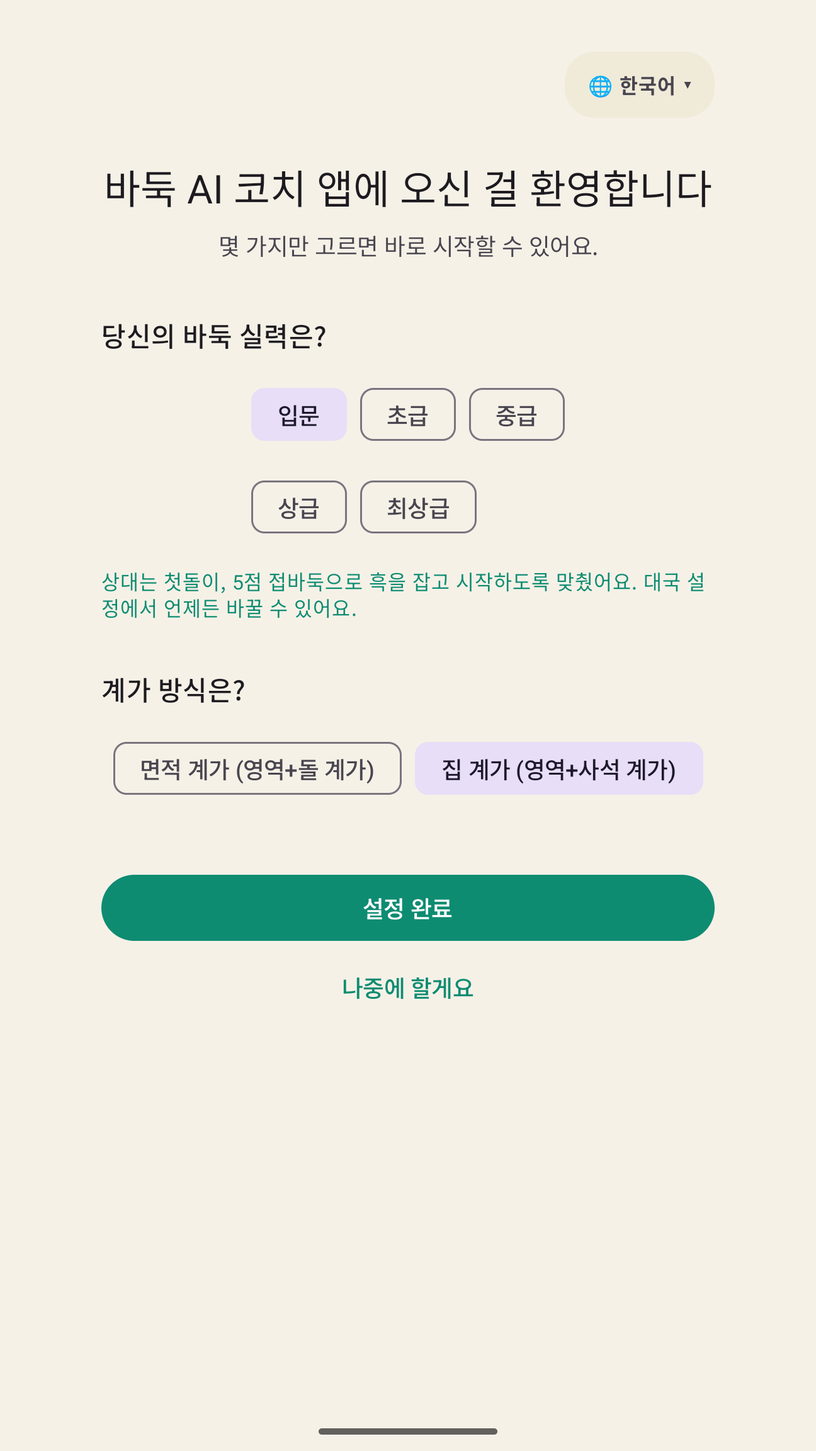
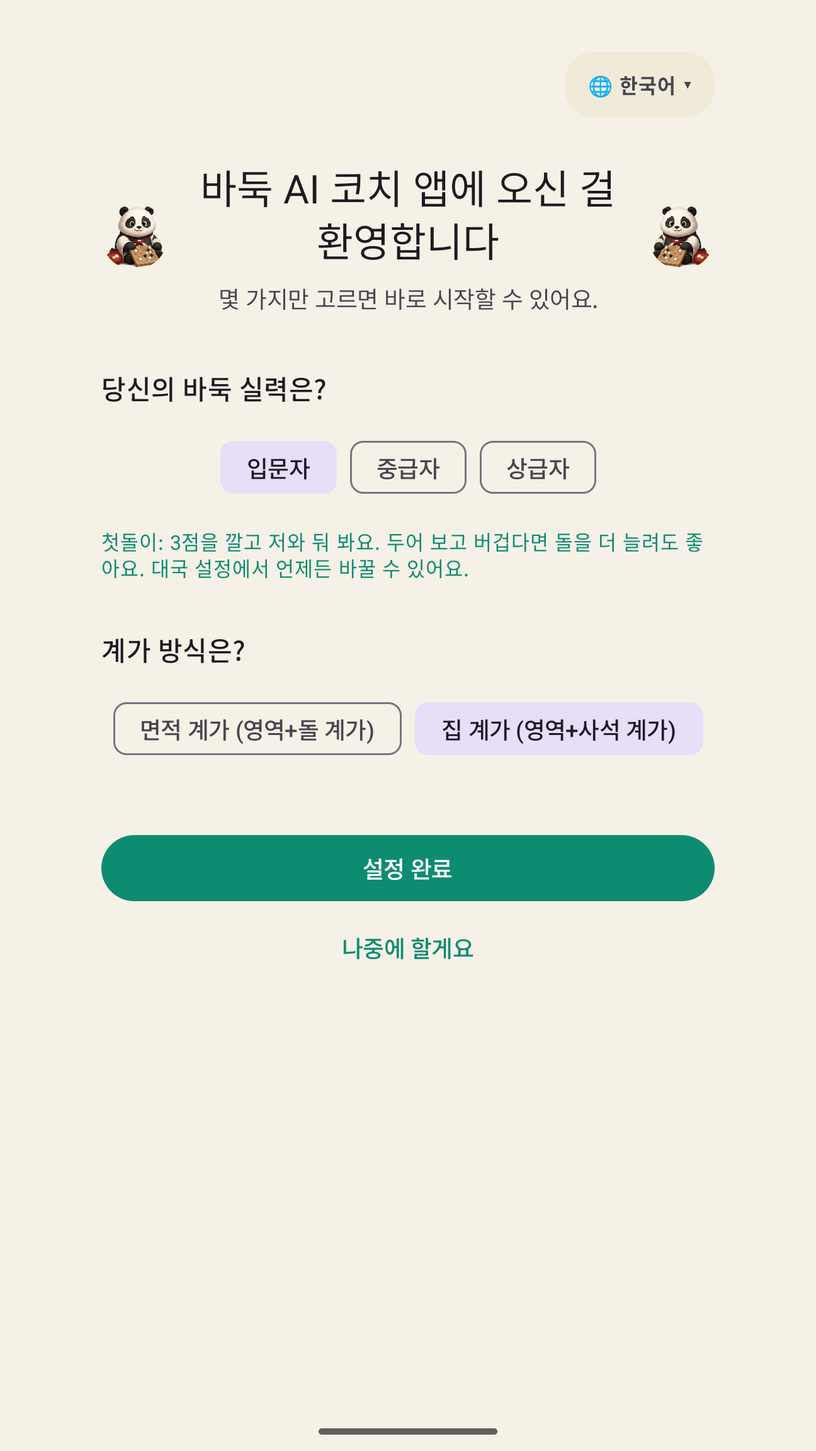
release: v0.9.1 / 901 — 마켓 등록용 번들, 그리고 낡아 있던 첫 컷
900을 만든 뒤 **여덟 커밋**이 들어갔다(#130~#136: 회전 이탈 수정 · 손을 따라오는
착수 · 랜딩 3지선다 · 앱 최초 실행 되돌리기 · 설정 IA 통합 · 대국 설정 잠금 ·
벤치마크 응답 · 결제 상품 종류). 900은 콘솔에 올라간 적이 없지만 **같은 번호에
다른 코드를 붙이지 않는다** — 805가 그 값을 이미 치렀다.

`dist/go-ai-coach-release.aab` = **v0.9.1 / VERSION_CODE=901**, 108MB,
sha256 `8c3eb79e77c420a0a37d94c731c88a4da1d2dee45c9444e8bd6496e4d6468a05`.

## 번들에서 직접 확인한 넷
- `base/lib/**/*.so` 셋 모두 `PT_LOAD p_align=16384` — 811을 반려시킨 조건(#118)
- `r8.json`의 `isOptimizedShrinkingEnabled=true`(#119)
- release 매니페스트에 `screenOrientation`·`configChanges`가 살아 있다(#130)
- dex에 오늘의 한국어 문구 셋 — #134·#135가 **R8을 넘어왔다**는 증거

## ⚠ 스토어 첫 컷이 앱과 달랐다 — 다시 찍었다
`01_landing.png`이 실력 질문을 **5단계**(입문/초급/중급/상급/최상급)로 보여주고
있었는데, #132가 **3지선다**로 바꿨다. **스토어의 첫 화면이 존재하지 않는 UI를
광고하던 상태**다. 캡처 조건과 변환 규격은 기존 그대로(96px 크롭 → 가장자리 열
확장 패딩 → 1296x2304 RGB).
· 나머지 다섯 장은 **확인하고 그대로 뒀다** — 900 이후 변경 중 그 화면들을 바꾸는
  것이 없다(사유는 그 폴더 README).

## ⚠ 업로드 사본의 번호가 옛 체계로 남아 있었다
2026-09-06의 재배열(랜딩을 맨 앞으로)이 `export/`에만 반영되고
`dist/play-store-assets/` 3곳은 `01_home`…`06_landing` 그대로였다. **콘솔은 파일명
오름차순으로 정렬하므로 그대로 올렸으면 랜딩이 맨 뒤로 갔다.** 세 폴더를 정본에서
다시 생성했다(sha256 넷 다 일치).

## release 빌드 실기(에뮬레이터 신규 설치) — R8을 켠 채로
랜딩 3지선다 → 입문자 선택 → 로비에 **접바둑 3점**이 그대로 → 출석 1일차 수령 →
엔진 기동·AI 착수(3수, `B +25.3`→`+22.1`) → **대국 중 회전해도 PID·수순 유지**
(#130) → ☰에서 네 칸 잠김 + 탭해도 안 열림(#134). `FATAL EXCEPTION` 0건.
⚠ 광고는 일부러 안 밟았다(§0 D — release만 실제 AdMob 단위를 쓴다).

출시 노트는 **첫 출시용 본문 그대로 둔다** — 900이 사용자에게 도달한 적이 없어
"이번에 개선된 것"이라 부를 기준선이 없다. 첫 출시가 나간 뒤부터는 새로 쓸 것.

Changed region(s): [[0.1235, 0.0938, 0.8951, 0.6875], [0.5247, 0.5, 0.8333, 0.5312]]

diff --git a/docs/work/plans/GOOGLE_PLAY_LAUNCH_PLAN.md b/docs/work/plans/GOOGLE_PLAY_LAUNCH_PLAN.md
@@ -53,11 +53,11 @@
 | A-2 | 개인정보처리방침 URL을 제출 필드에 등록 | ⬜ | URL은 이미 살아 있고 앱에서도 링크한다 — **콘솔에 붙여넣는 것만 남았다** | ✅ **답안지가 생겼다** — `PLAY_CONSOLE_PRIVACY_ANSWERS.md`. ⚠ 제출 전에 방침 문서의 **앱 이름**을 고칠 것 — ⚠ **2026-09-06 저녁에 앱 이름이 다시 바뀌었다**: `바둑 AI` → **`바둑 AI 코치`**(#97의 "코치 보류" 결정을 뒤집었다, 형세 보기·추천 수가 이미 코치 역할이라는 사용자 판단). 방침 페이지는 같은 날 오전에 `Go AI Coach` → `바둑 AI`로 한 번 고쳤을 뿐이라(아직 커밋·배포 전) 지금은 그것도 낡았다 — **`바둑 AI 코치`로 다시 맞출 것**, 랜딩·`resources.ts`도 여전히 남아 있다. ⚠ **URL 경로는 바꾸지 말 것** — 앱에 하드코딩(`SettingsScreen.kt:63`)이라 경로를 바꾸면 설치된 앱의 링크가 죽는다
 | A-3 | IARC 콘텐츠 등급 설문 | ⬜ | Firebase Analytics·Crashlytics를 **의도적으로 아예 안 넣었다** — 선언 대상은 AdMob 광고 ID와 Play Billing 구매 정보 정도 | ✅ **문항별 답이 `PLAY_CONSOLE_PRIVACY_ANSWERS.md`에 있다.** ⚠ 두 곳이 헷갈리기 쉽다 — **모의 도박은 '아니오'**(출석·조각이 전부 확정표라 확률형이 없다), **광고 형식은 '보상형' 하나뿐**(`BannerAdView`는 정의만 있고 **호출부가 0**이라 배너는 화면에 없다)
 | A-4 | 데이터 보안(Data safety) 양식 | ⬜ | A-3과 같은 근거 | ✅ **양식 문항별 답이 `PLAY_CONSOLE_PRIVACY_ANSWERS.md`에 있다.** 요지: Play의 '수집'은 **기기 밖으로 나가는 것**만 뜻하므로 **'기기 또는 기타 ID' 한 줄만 '예'**(AdMob 광고 ID)이고 나머지는 전부 '아니오'다. ⚠ **오류 로그는 '앱 정보 및 성능' 수집이 아니다** — 파일로만 남고 전송되지 않으며 Crashlytics·Sentry가 0건이다. ⚠ **`play-services-measurement-*`가 AdMob을 타고 트리에 들어와 있다**(`firebase-analytics`는 0건) — *"측정 아티팩트가 하나도 없다"* 고 말하면 사실이 아니다
-| A-5 | AAB 업로드 | ✅ **완료(2026-09-06, 812) — 지적 0건** | 올린 것은 `dist/go-ai-coach-release.aab` **v0.8.12 / 812**, sha256 `77608616ce4e…6c8e`. ✅ **최종 상태는 오류 0 · 경고 0 · 권장조치 0이다**(2026-09-06 사용자 확인). 16KB 오류가 사라졌고(#118), 최적화된 리소스 축소 권장조치도 사라졌으며(#119), **AGP 9.0 줄까지 함께 없어졌다** — 둘이 같은 「R8 최적화」 항목 아래 묶여 있던 것으로 보인다. 처음 떴던 "지원 기기 5,015개 감소" 경고는 위 D절대로 의도한 것이고 지금은 표시되지 않는다. ⚠ **811·810 이하로 되돌아갈 방법은 없다** — Play는 한 번 쓴 versionCode를 재사용하지 않는다. ⚠ **트랙마다 기준이 다르다**: 프로덕션에는 811이, 비공개 트랙에는 807이 올라가 있었다 | ⚠ **813이 나왔다(2026-09-06 저녁) — 812는 더 이상 올릴 것이 아니다.** 812에는 **#123(간헐적 시작 크래시)이 그대로 들어 있다**. `dist/go-ai-coach-release.aab` = **v0.8.13 / 813**, 108MB, sha256 `6ede6111b72a…a522b`. 813에는 #123 수정 + #124 아바타 + #125·#126 스플래시가 실려 있다. ✅ **콘솔이 막았던 두 조건을 813 번들에서 직접 확인했다** — `base/lib/**/*.so` 셋 모두 `PT_LOAD p_align=16384`(#118), `r8.json`의 `isOptimizedShrinkingEnabled=true`(#119).<br>⚠ **지금 올릴 것은 813도 아니다 — v0.9.0 / 900이다(2026-09-07).** 사용자가 813 위에서 직접 814를 만들어 실기 테스트를 끝냈고(완료 승인), 그 뒤 **마켓 정식 등록용으로 버전만 0.9.0/900으로 다시 올렸다** — 813→900 사이 코드 변경은 **#127(앱 이름에 "코치" 재추가) 하나뿐**이고, 900은 814와 **같은 코드**다(버전 번호만 갱신). `dist/go-ai-coach-release.aab` = **v0.9.0 / 900**, 108MB, sha256 `260e5beb4f560c5…8662541`. ✅ 900 번들에서도 앱 이름 "바둑 AI 코치"가 `base/resources.pb`에 들어간 것과 `p_align=16384`·`isOptimizedShrinkingEnabled=true` 둘 다 재확인했다.
-| A-6 | 스토어 등록정보·스크린샷 업로드 | ⬜ | **B-2는 끝났다(2026-09-01, `05`는 같은 날 오후에 재캡처)** — 올릴 것은 `design-handoff/export/2026-09-01-play-store-listing-and-screenshots/`(폴더 그대로, 파일만 갱신됨). ⚠ 스크린샷 칸이 **다섯 장 → 여섯 장**이 된다(랜딩 신규) |
+| A-5 | AAB 업로드 | ✅ **완료(2026-09-06, 812) — 지적 0건** | 올린 것은 `dist/go-ai-coach-release.aab` **v0.8.12 / 812**, sha256 `77608616ce4e…6c8e`. ✅ **최종 상태는 오류 0 · 경고 0 · 권장조치 0이다**(2026-09-06 사용자 확인). 16KB 오류가 사라졌고(#118), 최적화된 리소스 축소 권장조치도 사라졌으며(#119), **AGP 9.0 줄까지 함께 없어졌다** — 둘이 같은 「R8 최적화」 항목 아래 묶여 있던 것으로 보인다. 처음 떴던 "지원 기기 5,015개 감소" 경고는 위 D절대로 의도한 것이고 지금은 표시되지 않는다. ⚠ **811·810 이하로 되돌아갈 방법은 없다** — Play는 한 번 쓴 versionCode를 재사용하지 않는다. ⚠ **트랙마다 기준이 다르다**: 프로덕션에는 811이, 비공개 트랙에는 807이 올라가 있었다 | ⚠ **813이 나왔다(2026-09-06 저녁) — 812는 더 이상 올릴 것이 아니다.** 812에는 **#123(간헐적 시작 크래시)이 그대로 들어 있다**. `dist/go-ai-coach-release.aab` = **v0.8.13 / 813**, 108MB, sha256 `6ede6111b72a…a522b`. 813에는 #123 수정 + #124 아바타 + #125·#126 스플래시가 실려 있다. ✅ **콘솔이 막았던 두 조건을 813 번들에서 직접 확인했다** — `base/lib/**/*.so` 셋 모두 `PT_LOAD p_align=16384`(#118), `r8.json`의 `isOptimizedShrinkingEnabled=true`(#119).<br>⚠ **지금 올릴 것은 813도 아니다 — v0.9.0 / 900이다(2026-09-07).** 사용자가 813 위에서 직접 814를 만들어 실기 테스트를 끝냈고(완료 승인), 그 뒤 **마켓 정식 등록용으로 버전만 0.9.0/900으로 다시 올렸다** — 813→900 사이 코드 변경은 **#127(앱 이름에 "코치" 재추가) 하나뿐**이고, 900은 814와 **같은 코드**다(버전 번호만 갱신). `dist/go-ai-coach-release.aab` = **v0.9.0 / 900**, 108MB, sha256 `260e5beb4f560c5…8662541`. ✅ 900 번들에서도 앱 이름 "바둑 AI 코치"가 `base/resources.pb`에 들어간 것과 `p_align=16384`·`isOptimizedShrinkingEnabled=true` 둘 다 재확인했다.<br>⚠ **지금 올릴 것은 900도 아니다 — v0.9.1 / 901이다(2026-09-11).** 900을 만든 뒤 **여덟 커밋**이 들어갔다(백로그 #130~#136: 회전 이탈 수정·손을 따라오는 착수·랜딩 3지선다·앱 최초 실행 되돌리기·설정 IA 통합·대국 설정 잠금·벤치마크 응답·결제 상품 종류). `dist/go-ai-coach-release.aab` = **v0.9.1 / VERSION_CODE=901**, 108MB, sha256 `8c3eb79e77c420a0…d6468a05`. ✅ **번들에서 직접 확인한 것 넷**: `base/lib/**/*.so` 셋 모두 `PT_LOAD p_align=16384`(#118) · `r8.json` `isOptimizedShrinkingEnabled=true`(#119) · release 매니페스트에 `screenOrientation`·`configChanges`가 살아 있다(#130 회전 수정) · dex에 오늘의 한국어 문구 셋이 들어 있다(#134·#135가 R8을 넘어왔다는 증거). ⚠ **900은 콘솔에 올라간 적이 없다** — 그래도 되돌아가지 말 것. 901이 900의 코드를 전부 포함한다.
+| A-6 | 스토어 등록정보·스크린샷 업로드 | ⬜ | **B-2는 끝났다(2026-09-01, `05`는 같은 날 오후에 재캡처)** — 올릴 것은 `design-handoff/export/2026-09-01-play-store-listing-and-screenshots/`(폴더 그대로, 파일만 갱신됨). ⚠ 스크린샷 칸이 **다섯 장 → 여섯 장**이 된다(랜딩 신규) | | ⚠ **`01_landing`이 낡아 있었다 — 2026-09-11에 다시 찍었다.** #132가 실력 질문을 **5단계에서 3지선다로** 바꿨는데 커밋본은 5개 칩을 그대로 보여주고 있었다(스토어 **첫 컷**이 앱과 다른 화면을 광고하던 상태). 나머지 다섯 장은 900 이후 변경(#130~#136)이 그 화면들을 바꾸지 않아 유효하다 — 근거는 그 폴더 README의 「2026-09-11 재캡처」. ⚠ **`dist/play-store-assets/`의 스크린샷 번호가 옛 체계(`01_home`…`06_landing`)로 남아 있었다** — 콘솔은 파일명 오름차순으로 정렬하므로 그대로 올렸으면 **랜딩이 맨 뒤로** 갔다. 세 폴더를 `export/`에서 다시 생성했고 sha256이 넷 다 일치한다.
 | A-9 | **배포 국가 = 전 세계**(좁히지 않는다) | ✅ | 2026-09-06 사용자 결정. ⚠ 그래서 **A-10이 필수가 된다** — EEA·영국·스위스에 광고를 내보내려면 Google 인증 CMP가 있어야 한다. 좁히면 A-10이 사라지지만 그 길은 택하지 않았다(백로그 #89) |
 | A-10 | **AdMob 유럽 규정(GDPR) 메시지 생성·게시** | ✅ **완료(2026-09-09 실기·에뮬레이터 검증)** | ⚠ **코드보다 먼저다.** 개인정보 보호 및 메시지 → 유럽 규정 → 앱 선택 → 언어 → 타겟팅 `GDPR 지역` → 개인정보처리방침 URL → **게시**. ⚠ **초안으로 두면 앱에서 아무 일도 일어나지 않는다** — UMP 3.0.0부터 메시지가 없으면 `canRequestAds()`가 **true**를 돌려주므로 폼도 안 뜨고 광고는 그대로 나간다. 코드(#89)는 이미 들어가 있다. **"개인정보 옵션 링크 포함"도 함께 결정할 것** — 그 값이 앱 설정의 `광고 개인정보 설정` 행을 나타나게 한다.<br>**게시 후 확인 절차**: ① `local.properties`에 `consent.forceEeaDebug=true` 추가(`consent.testDeviceHashedId`는 이미 있다) → ② `./gradlew :app-android:assembleDebug` 후 설치 → ③ 앱 실행 → `대국 하기` → `프리미엄 모드 활성화하기` → `광고 시청으로 1시간 활성화` → ④ **판정은 `adb logcat | grep UserMessagingPlatform`으로 한다**(아래 ⚠ 참고) → ⑤ 끝나면 `consent.forceEeaDebug` 줄을 지우고 릴리스 빌드로 재설치할 것(디버그가 릴리스를 덮어쓴다 — `applicationIdSuffix`가 없다. ⚠ 서명이 달라 `install -r`이 실패하므로 `adb uninstall` 후 설치해야 하고, **그 과정에서 기기의 앱 데이터가 사라진다**).<br>⚠ **2026-09-08 정정: 옛 ④번 기준("폼 제목이 `Publisher Test Ads`가 아니라 우리 앱 이름이면 반영")은 디버그 빌드에서 원리상 통과할 수 없다.** UMP는 **매니페스트의 AdMob 앱 ID**로 메시지를 조회하는데, `debug`·`playInternal`은 그 자리에 구글 데모 퍼블리셔의 테스트 앱 ID(`ca-app-pub-3940256099942544~3347511713`)를 못박는다(`build.gradle.kts:163,272` — 실 앱 ID는 `release`에만 들어간다). 그래서 디버그 폼은 **게시 여부와 무관하게 언제나** 그 데모 앱의 폼, 즉 제목이 `Publisher Test Ads`다. **판정은 제목이 아니라 logcat으로 한다** — 미게시면 UMP가 앱 ID까지 찍어서 알려 준다: `Publisher misconfiguration: ... no form(s) configured for the input app ID. Received app ID: ca-app-pub-6644510399396628~8010375588`. 실 앱 ID로 그 줄이 사라지면 게시된 것이다. ⚠ 실 앱 ID로 조회하려면 `build.gradle.kts:163`을 **한시적으로** `realAdmobAppId ?: testAdmobAppId`로 바꿔야 한다(광고 **단위**는 `USE_TEST_ADS=true`라 테스트 그대로여서 실단위 트래픽은 안 생긴다) — 확인 후 반드시 되돌릴 것.<br>✅ **EEA 강제 자체는 이제 확실히 동작한다**(2026-09-08 실기, SM-S911N): logcat에 `IABTCF_gdprApplies=1`이 찍히고 폼이 `load_complete status:ok`로 뜬다 — `consent.testDeviceHashedId`가 채워진 뒤로 2026-09-06의 `gdprApplies=0` 문제는 재발하지 않는다.<br>**2026-09-08 실측 경과(같은 날 두 번 쟀다).** ① 오전엔 미게시였다 — 실 앱 ID로 위 `no form(s) configured` 줄이 그대로 나왔다. ② 사용자가 게시한 뒤 다시 재니 **그 줄이 사라졌다**(에뮬레이터, 실 앱 ID). 폼도 눈으로 확인했다 — **우리 앱 아이콘이 박힌 우리 폼**이 뜨고 `Publisher Test Ads`가 아니다. ✅ **"개인정보 옵션 링크 포함"도 켜져 있다** — 거부(`Do not consent`)로 동의 절차를 끝내자 설정 화면에 `광고 개인정보 설정` 행이 실제로 나타났고, 그 행을 누르면 폼이 다시 뜬다(`AdPrivacyOptionsRow.kt`의 `REQUIRED` 분기가 살아 있다는 뜻). ✅ 거부는 `IABTCF_PurposeConsents` 전부 `0` + `dismiss:CONSENT_SIGNAL_SUFFICIENT`로 기록된다. ✅ 첫 화면 `Do not consent` 버튼도 있다(콘솔 수정 직후 새로 받아온 폼부터 나타났다 — 그 전 폼에는 `Consent`/`Manage options` 둘뿐이었다).<br>✅ **폼에 뜨는 앱 이름은 AdMob 콘솔 값이 아니라 우리 앱의 런처 레이블이고, 로케일별로 알아서 맞는다**(2026-09-09 실측). 처음엔 `Go AI Coach`가 떠서 "이름이 낡았다"고 판단했는데 **틀린 진단이었다** — 그건 에뮬레이터 기기 로케일이 `en-US`라서 `res/values-en/strings.xml`의 `app_name`이 해석된 결과였고, 그게 실제로 우리 앱의 영문 이름이다. `cmd locale set-app-locales … --locales ko-KR`로 앱 로케일만 바꾸자 폼 제목이 **`바둑 AI 코치`** 로 바뀌었다(다른 조건은 전부 동일). 즉 영어 기기는 `Go AI Coach`, 한국어 기기는 `바둑 AI 코치`, 일본어는 `囲碁AIコーチ`, 중국어는 `围棋AI教练`를 본다 — **손댈 것이 없다.** 기전은 logcat의 `consent://consent/?action=configure_app_assets`다: UMP SDK가 앱 아이콘과 레이블을 폼에 넘긴다(그래서 Play 미연결인데도 폼에 **우리 아이콘**이 떴다). ⚠ **따라서 AdMob 콘솔의 앱 이름을 고쳐도 폼은 바뀌지 않는다** — 콘솔 이름은 폼과 무관하니 **스토어 등재명(`바둑 AI 코치`)에 맞춰 두면 되고**, 폼을 영문으로 맞추려고 `Go AI Coach`로 되돌리지 말 것. 메시지 재게시도 필요 없다. ℹ **언어 목록에 한국어가 없는 것은 정상이다** — 이 메시지는 GDPR 지역(EEA·영국·스위스)만 타겟해서 그 지역 언어만 고를 수 있다. 번역이 없는 언어는 영어로 떨어지므로 EEA의 한국어 사용자는 영어 폼을 본다(불가피).<br>⚠ **`Google Play에 연결`이 막히는 것과 이 항목은 무관하다** — 정식 등재 전이라 연결은 실패하는 게 정상이지만(→ **A-12**), 메시지 게시의 전제조건은 ① AdMob에 앱 추가 ② UMP SDK 설치 둘뿐이라 **연결 없이 지금 게시할 수 있다.** 편집기의 `앱 선택` 목록에는 스토어 미연결 앱도 나온다 |
-| A-11 | **출시 노트**("이 버전의 새로운 기능") | ⬜ | ⚠ **저장소 어디에도 없던 항목이다**(2026-09-06 사용자가 등록 중에 발견). `store_listing.txt`의 **`[출시 노트]` 절**에 **붙여넣기 그대로 되는 형식**으로 넣어 뒀다 — 콘솔은 `<ko-KR>…</ko-KR>` 처럼 **언어 태그로 감싼** 것을 받는다. ⚠ **등록정보에 없는 언어의 태그를 넣지 말 것** — 지금은 한국어 하나뿐이라 `<ko-KR>`만 유효하고, `<en-US>` 블록은 영어 등록정보를 추가한 뒤에 쓴다. 상한은 **언어당 500자**(한국어 280·영어 493). ⚠ **버전마다 다시 쓴다** — 지금 올릴 것은 **v0.9.0/900**이지만 본문은 여전히 **최초 출시용 그대로**다(811→812→813→814→900 전부 번호만 오르고 실제 출시된 적은 없다 — Play는 반려·재빌드·이름 변경 때마다 versionCode 재사용을 막는다). `store_listing.txt`의 `[출시 노트]` 머리말도 900으로 맞춰 뒀다. A-5(AAB 업로드)와 같은 화면에서 받으므로 함께 처리할 것 |
+| A-11 | **출시 노트**("이 버전의 새로운 기능") | ⬜ | ⚠ **저장소 어디에도 없던 항목이다**(2026-09-06 사용자가 등록 중에 발견). `store_listing.txt`의 **`[출시 노트]` 절**에 **붙여넣기 그대로 되는 형식**으로 넣어 뒀다 — 콘솔은 `<ko-KR>…</ko-KR>` 처럼 **언어 태그로 감싼** 것을 받는다. ⚠ **등록정보에 없는 언어의 태그를 넣지 말 것** — 지금은 한국어 하나뿐이라 `<ko-KR>`만 유효하고, `<en-US>` 블록은 영어 등록정보를 추가한 뒤에 쓴다. 상한은 **언어당 500자**(한국어 280·영어 493). ⚠ **버전마다 다시 쓴다** — 지금 올릴 것은 **v0.9.1/901**이지만 본문은 여전히 **최초 출시용 그대로**다(811→812→813→814→900→901 전부 번호만 오르고 실제 출시된 적은 없다 — Play는 반려·재빌드·이름 변경 때마다 versionCode 재사용을 막는다). `store_listing.txt`의 `[출시 노트]` 머리말도 **901**로 맞춰 뒀다. ⚠ **901은 900 대비 코드가 실제로 달라졌지만(#130~#136) 출시 노트는 그대로 둔다** — 900이 사용자에게 도달한 적이 없어 "개선"이라 부를 기준선이 없기 때문이다. **첫 출시가 실제로 나간 뒤부터는 반드시 새로 쓸 것.** A-5(AAB 업로드)와 같은 화면에서 받으므로 함께 처리할 것 |
 | A-12 | **AdMob 앱 ↔ Google Play 연결**(앱 심사·게재 제한 해제) | 🔒 | ⚠ **저장소 어디에도 없던 항목이다**(2026-09-08 사용자가 A-10을 하러 갔다가 발견 — `Google Play에 연결`을 누르니 *"일치하는 Google Play 앱을 찾을 수 없음"*). **정식 등재가 선행 조건이라 지금은 할 수 없는 게 맞다.** 지금 AdMob 앱은 스토어 미등재 상태로 수동 추가된 앱이라 `검토 필요` 상태이고 **광고 게재가 제한된다**(limited ad serving). 등재 후 연결하면 심사가 자동으로 시작되고(**2~3일**) 통과 시 제한이 풀린다. ⚠ **A-10과 혼동하지 말 것 — 별개의 축이다**: 동의 메시지 게시의 전제조건은 ① AdMob에 앱 추가(이미 됨) ② UMP SDK 설치(#89로 이미 됨) **둘뿐**이고 스토어 연결은 들어가지 않는다. 그래서 **A-10은 지금 바로 게시할 수 있다.** 근거: [Link your app to an app store](https://support.google.com/admob/answer/10037806), [About app readiness](https://support.google.com/admob/answer/10564477), [Create a European regulations message](https://support.google.com/admob/answer/10113207). ⚠ **수익을 줄이는 조건이 지금 둘 겹쳐 있다** — A-10 미게시(EEA 개인 맞춤 광고 차단)와 이 항목(전반적 게재 제한). 서로 독립이라 하나를 풀어도 다른 하나는 그대로다 |
 | A-7 | 캐릭터 상품 등록 → **#18** | 🔒 | 수익 창출이 열린 뒤. 남은 건 상품 등록 + `local.properties` 기입 + 플래그 셋뿐(코드는 머지 완료) |
 | A-8 | 구독 상품 등록 → **#26** | 🔒 | 수익 창출이 열린 뒤. ⚠ **이쪽은 코드 작업이 먼저다**(영구 구매 → 월 구독 전환, 강등 판정의 conflation 분리가 1번) |
@@ -66,7 +66,7 @@
 
 | # | 항목 | 상태 | 근거 / 방법 |
 | --- | --- | --- | --- |
-| B-1 | **AAB 재빌드** | ✅ **완료(2026-09-06, 812로 재빌드)** | `dist/go-ai-coach-release.aab` = **v0.8.12 / VERSION_CODE=812**, 108MB, sha256 `77608616ce4e…6c8e`. `make bundle-aab TARGET=emu`(release 빌드타입). ⚠ **`TARGET=`이 필요했다** — 기기가 둘 붙어 있으면 `make doctor`가 멈춘다. ⚠ **직전 811은 Play가 반려했다**(16KB 페이지 크기). 812에 들어간 것은 그 수정(#118, 엔진 재링크)과 최적화된 리소스 축소(#119) 둘이고, **AGP 9.0(#120)은 일부러 넣지 않았다** — 출시를 막는 수정과 메이저 업그레이드를 같은 번들에 실으면 무엇이 깨졌는지 가를 수 없다. 번들에서 확인한 것: 네이티브 셋 다 `p_align=16384` · `r8.json` `isOptimizedShrinkingEnabled=true` · 네이티브는 `arm64-v8a` 하나뿐 · katago 에셋 3개 · 캐릭터 webp 5장 | ⚠ **813이 나왔다(2026-09-06 저녁) — 812는 더 이상 올릴 것이 아니다.** 812에는 **#123(간헐적 시작 크래시)이 그대로 들어 있다**. `dist/go-ai-coach-release.aab` = **v0.8.13 / 813**, 108MB, sha256 `6ede6111b72a…a522b`. 813에는 #123 수정 + #124 아바타 + #125·#126 스플래시가 실려 있다. ✅ **콘솔이 막았던 두 조건을 813 번들에서 직접 확인했다** — `base/lib/**/*.so` 셋 모두 `PT_LOAD p_align=16384`(#118), `r8.json`의 `isOptimizedShrinkingEnabled=true`(#119).<br>✅ **900이 마켓 정식 등록용이다(2026-09-07).** 813 위에서 사용자가 직접 814를 만들어 실기 테스트를 마쳤고(승인 완료), 등록 직전 `make bundle-aab VERSION=0.9.0`으로 다시 빌드했다 — 813→900 사이 코드는 **#127(이름 "코치" 재추가) 하나뿐**이라 900은 814와 같은 코드다. `dist/go-ai-coach-release.aab` = **v0.9.0 / VERSION_CODE=900**, 108MB, sha256 `260e5beb4f560c5…8662541`. `p_align=16384`·`isOptimizedShrinkingEnabled=true` 재확인, 앱 이름 "바둑 AI 코치"가 `base/resources.pb`에 반영된 것도 확인했다.
+| B-1 | **AAB 재빌드** | ✅ **완료(2026-09-06, 812로 재빌드)** | `dist/go-ai-coach-release.aab` = **v0.8.12 / VERSION_CODE=812**, 108MB, sha256 `77608616ce4e…6c8e`. `make bundle-aab TARGET=emu`(release 빌드타입). ⚠ **`TARGET=`이 필요했다** — 기기가 둘 붙어 있으면 `make doctor`가 멈춘다. ⚠ **직전 811은 Play가 반려했다**(16KB 페이지 크기). 812에 들어간 것은 그 수정(#118, 엔진 재링크)과 최적화된 리소스 축소(#119) 둘이고, **AGP 9.0(#120)은 일부러 넣지 않았다** — 출시를 막는 수정과 메이저 업그레이드를 같은 번들에 실으면 무엇이 깨졌는지 가를 수 없다. 번들에서 확인한 것: 네이티브 셋 다 `p_align=16384` · `r8.json` `isOptimizedShrinkingEnabled=true` · 네이티브는 `arm64-v8a` 하나뿐 · katago 에셋 3개 · 캐릭터 webp 5장 | ⚠ **813이 나왔다(2026-09-06 저녁) — 812는 더 이상 올릴 것이 아니다.** 812에는 **#123(간헐적 시작 크래시)이 그대로 들어 있다**. `dist/go-ai-coach-release.aab` = **v0.8.13 / 813**, 108MB, sha256 `6ede6111b72a…a522b`. 813에는 #123 수정 + #124 아바타 + #125·#126 스플래시가 실려 있다. ✅ **콘솔이 막았던 두 조건을 813 번들에서 직접 확인했다** — `base/lib/**/*.so` 셋 모두 `PT_LOAD p_align=16384`(#118), `r8.json`의 `isOptimizedShrinkingEnabled=true`(#119).<br>✅ **900이 마켓 정식 등록용이다(2026-09-07).** 813 위에서 사용자가 직접 814를 만들어 실기 테스트를 마쳤고(승인 완료), 등록 직전 `make bundle-aab VERSION=0.9.0`으로 다시 빌드했다 — 813→900 사이 코드는 **#127(이름 "코치" 재추가) 하나뿐**이라 900은 814와 같은 코드다. `dist/go-ai-coach-release.aab` = **v0.9.0 / VERSION_CODE=900**, 108MB, sha256 `260e5beb4f560c5…8662541`. `p_align=16384`·`isOptimizedShrinkingEnabled=true` 재확인, 앱 이름 "바둑 AI 코치"가 `base/resources.pb`에 반영된 것도 확인했다.<br>✅ **901로 다시 빌드했다(2026-09-11, `make bundle-aab VERSION=0.9.1 TARGET=emu`).** sha256 `8c3eb79e77c420a0…d6468a05`. ⚠ **`TARGET=emu`가 필요했고 에뮬레이터를 먼저 켜야 했다** — `doctor`가 기기를 요구한다(AAB 빌드 자체에는 필요 없지만 Makefile 경로가 그렇다). ✅ 다행히 `doctor`가 `bump-version`보다 **앞**이라, 기기가 없어 멈춘 첫 시도는 `version.properties`를 건드리지 않았다(백로그 #90이 이 순서를 정한 이유가 그대로 증명됐다).
 | B-2 | **스크린샷 재캡처** | ✅ **완료(2026-09-06)** | 새 정본은 `design-handoff/export/2026-09-01-play-store-listing-and-screenshots/`다 — **여섯 장**(`02`~`05` 재캡처 + `06_landing` 신규, `01`은 내용 동일 확인). 빌드 `v260831.2334`, **`05`만 `v260901.1649`(HEAD `219a52c`)**. ⚠ **`02`·`03`·`04`는 접바둑 5점으로 찍었다**(호선이 아니다) — 호선으로는 21수에서 `흑 0% · 백 100%`가 되어 스토어 첫인상이 "당신은 크게 집니다"가 된다. 사유와 되돌리는 방법은 그 폴더 README의 "판단한 것 둘". ✅ **#64가 실제로 그 문구를 바꿔(`d89aebb`) `05`만 다시 찍었다** — 새 힌트는 `조각 7개 남았어요` / `광고를 보면 1개씩 모여요` 두 줄이다. 예정했던 순서(**#64 → B-1 → B-2(05)**)를 그대로 밟았다. 나머지 다섯 컷은 손대지 않았고, 새 `05`와 옛 `05`의 픽셀 차이는 **힌트 두 줄뿐**이다(`x 414–881, y 1242–1316`). ⚠ **재현하려면 시드에 한 줄이 더 필요하다** — #63 이후로는 `go_ai_coach_release_reset`에 `applied_generation=1`을 같이 심어야 초기화가 심은 값을 지우지 않는다(그 폴더 README의 "캡처 조건") | ⚠ **2026-09-05: `01_home.png`이 낡았다** — 이미지 안에 큰 글씨로 **`Go AI Coach`** 가 박혀 있는데, #97이 앱 이름을 스토어와 같은 **`바둑 AI`** 로 바꿨다(`9b456c4`). 지금 올리면 **등록정보의 이름과 스크린샷의 이름이 서로 다르다** — #87과 같은 종류의 어긋남이다. ⚠ **같은 바이트가 네 곳에 복제돼 있다**: `dist/play-store-assets/{phone,tablet_7in,tablet_10in}_screenshots/` 3곳 + export 폴더 1곳. 재캡처하면 **네 곳을 모두 갱신**할 것. 캡처 조건은 그 폴더 README(⚠ `font_scale` 1.0, `release_reset` 시드 포함).<br>✅ **2026-09-06에 `01`·`02`·`05` 세 장을 다시 찍어 네 곳 모두 갱신했다**(export 1 + dist 3). ⚠ **`02`는 이 항목이 몰랐던 세 번째였다** — #86의 원화 교체가 로비 아바타에도 나온다. `03`·`04`는 아바타를 안 써서 영향이 없고 `06`은 이미 새 이름이었다. 변환 규격과 `02`로 한 검증은 그 폴더 README의 「2026-09-06 재캡처」 절에 있다. ⚠ **`02`·`05`를 2026-09-06 저녁에 다시 찍었다** — #124가 캐릭터 원화를 바꿔 로비 아바타(`02`)와 픽커 카드(`05`)가 낡았다. ✅ **변환이 옳다는 근거도 같이 나왔다**: `02`는 커밋본과 **아바타 영역 0.06%만** 다르고 나머지가 픽셀 동일, `05`도 **0.78%**가 전부 중앙 카드의 아바타였다. 네 곳(`export/` + `dist/play-store-assets/` 셋) sha256 일치 확인.<br>⚠ **2026-09-06 저녁: `01`·`06`이 또 낡았다** — 앱 이름이 `바둑 AI` → `바둑 AI 코치`로 다시 바뀌었다(위 A-2 참고). `01_home`은 `strings.appTitle`을, `06_landing`은 랜딩 타이틀("바둑 AI 앱에 오신 걸 환영합니다")을 화면에 그대로 찍는다 — 둘 다 업로드 전 **재캡처가 필요하다**. `02`~`05`는 앱 이름 글자가 나오지 않아 영향 없다.<br>✅ **같은 날 밤 재캡처 완료, 겸사겸사 번호도 재배열했다(사용자 지시)** — 랜딩이 맨 앞으로 와 파일명이 전부 한 칸씩 밀렸다: `01_landing`(구 `06_landing`) · `02_home`(구 `01_home`) · `03_setup_lobby`(구 `02`) · `04_character_picker`(구 `05`) · `05_gameplay`(구 `04`) · `06_eval_coaching`(구 `03`). 이름 글자가 나오는 `01_landing`·`02_home` 둘만 실제로 다시 찍었고(0.82%·0.36% 픽셀 차이, 나머지는 커밋본과 동일), 나머지 넷은 내용 그대로 파일명만 바꿨다. `export/` + `dist/` 세 곳 sha256 일치 확인, 상세는 스크린샷 폴더 README의 「2026-09-06 밤 재캡처」 절.
 | B-3 | **`release` 빌드타입을 실기에서 한 판** | ✅ **완료(2026-09-06 저녁, 813)** | **812 APK를 에뮬레이터에 신규 설치**해 랜딩 → 입문 선택 → 설정 저장(`집계가`·`13x13`·`접바둑 5점`이 로비에 그대로) → 출석 1일차 수령 → **엔진 기동·AI 백 착수**(`B +49.3`) → 형세 보기로 **1회권 30→29** + 영역 오버레이까지 밟았다. ⚠ **#119(최적화된 리소스 축소)를 켠 뒤라 이 한 판이 필수였다** — 확인의 초점은 **리소스가 살아남았는가**였고, 출석 도장판의 캐릭터 그림 넷과 로비의 **컬러 판다 아바타**가 그대로 그려졌다(#86 원화). ⚠ **광고는 일부러 안 밟았다**(§0 D — `release`만 실제 AdMob 단위를 쓴다). ⚠ **콜드 재시작 검증 중 별건의 간헐 크래시를 발견했다** — 백로그 #123. **812가 만든 것이 아니다**(811과 같은 코드에서도 같은 비율로 난다) | ✅ **813으로 다시 밟았다(2026-09-06 저녁, 에뮬레이터 신규 설치).** 콜드 스타트 **1191ms** · 랜딩에서 입문 선택 → 로비에 `첫돌이`·`접바둑 5점`이 그대로 → 출석 1일차 수령 → **엔진 기동·AI 백 착수**(`B +49.3`, 3·5수도 정상 진행) → 형세 보기로 **1회권 30→29** + 영역 오버레이. ⚠ **이번 확인의 초점은 #124가 갈아 끼운 원화가 R8 리소스 축소를 넘어왔는가**였고, 로비의 **컬러 판다 아바타**와 픽커 **다섯 장 전부**가 그려졌다(잠긴 넷의 회색은 의도된 잠금 표현이지 리소스 누락이 아니다). `FATAL EXCEPTION` 0건, dropbox의 크래시 기록은 **전부 이 설치 이전(812) 것**이다. ⚠ **무르기는 못 밟았다** — 광고 게이트 뒤라 §0 D를 지키려 거절했다. ⚠ **이 한 판이 #123을 재검증하지는 않는다** — 그 크래시는 force-stop 반복에서만 났고, 검증은 별도 520회 A/B로 이미 끝났다(백로그 함정 35). 참고 잡음: 엔진 기동 중 `libkatago.so`의 SELinux `avc: denied { search } name="tests"` — 무해하고 기동을 막지 않았다<br>ℹ **900은 이 실기를 다시 밟지 않았다** — 813→900 사이 코드 변경이 앱 이름 리소스 문자열 하나뿐이라(#127), 여기서 검증한 엔진 기동·형세 보기·리소스 축소 생존 항목에 영향을 줄 이유가 없다. 사용자가 814에서 직접 실기 테스트를 마쳤고(승인 완료), 900은 814와 같은 코드다.
 | B-4 | 구매 플래그를 켜는 날 **함께 바뀌어야 하는 문구 전부** | ⏸ 보류가 맞다 | 2026-08-31 확인: `isLoginEnabled`·`isPurchaseEnabled`·`isBotCharacterPurchaseEnabled` **셋 다 `false`** 라 *"앱 내 결제 없음"* 은 **지금 참이다.** ⚠ #18·#26을 켜는 **배포 시점에** 바꾼다 — 미리 바꾸면 스토어가 거짓말을 하고, 잊으면 정책 위반이 된다.<br>⚠ **2026-09-08(#129)에 이 항목을 넓혔다 — 한 문장이 아니라 다섯이다.** #87이 요구한 확장이 그때까지 반영되지 않아, 걸어야 할 목록을 여기 못박는다:<br>ⓐ `design-handoff/export/2026-09-01-play-store-listing-and-screenshots/store_listing.txt`의 **[요금 안내] 문단 전체**(`:13`·`:32`·`:44`)와 **출시 노트**(`:71`·`:85`), 그 파일 안의 *"주의 2"*(`:128-131`). ⚠ **`dist/` 사본을 보지 말 것** — gitignore 대상이라 낡는다(`AppNameContractTest`가 일부러 export 쪽을 읽는 이유).<br>ⓑ `PLAY_CONSOLE_PRIVACY_ANSWERS.md`의 **A-3 디지털 구매·A-4 금융정보·데이터 삭제** 답 **재제출**.<br>ⓒ 개인정보처리방침(`rezen.dev`)에 **결제·구매 항목 신설** — 지금 그 문서에 '결제'라는 낱말이 **0건**이다.<br>ⓓ 마이페이지 유료 조각 `localOnlyDataNoticePaidRestoreLine`이 **실제로 노출된다**(게이트는 `isBotCharacterPurchaseEnabled` 하나. #129 참고).<br>ⓔ ⚠ **코드가 문구보다 먼저다**: `PremiumPurchaseGlue.kt:36-38`이 `AndroidBillingClient` 기본값 `INAPP`으로 조회해 **구독은 조용한 미소유**가 되고, `BotCharacterUiState.kt:147-149`의 `firstOrNull`은 **유료 캐릭터 한 종**만 되찾는다. 둘을 고치기 전에 플래그를 켜면 문구만 참이 된다(백로그 #26·#18) |

diff --git a/design-handoff/export/2026-09-01-play-store-listing-and-screenshots/README.md b/design-handoff/export/2026-09-01-play-store-listing-and-screenshots/README.md
@@ -242,3 +242,32 @@ git 추적 대상이 아니라서 재배열하지 않았다). sha256 넷 다 일
 - `GOOGLE_PLAY_LAUNCH_PLAN.md` — §0이 출시 실행 상태의 정본. **B-2가 이 폴더로 닫힌다**
 - `260906-_ACTIVE_BACKLOG.md` — 활성 코드 일감(#26·#18). 화면 변경이 멎었다는 근거
 - 앞 세트(2026-08-30, 다섯 장)는 형제 폴더에 있다 — 이력용
+
+## 2026-09-11 재캡처 — `01_landing` 한 장, 그리고 `dist/` 번호 체계 정정
+
+**#132가 랜딩의 실력 질문을 5단계에서 3지선다로 바꿨다**(입문/초급/중급/상급/최상급 →
+**입문자/중급자/상급자**). 커밋본 `01_landing`은 **5개 칩을 그대로 보여주고 있었다** — 스토어
+첫 컷이 앱과 다른 화면을 광고하고 있었다는 뜻이다. 그 한 장만 다시 찍었다.
+
+| 컷 | 무엇이 달라졌나 |
+| --- | --- |
+| `01_landing` | 칩 **5개 → 3개**(한 줄로 들어간다). 결과 안내가 첫돌이 **1인칭**으로 바뀌었다(*"첫돌이: 3점을 깔고 저와 둬 봐요…"*). 좌우에 **첫돌이 장식**이 붙었다(#128 ①) |
+
+캡처 조건은 기존과 같다 — Pixel 7 API 35(1080x2400, density 420), 한국어, `pm clear` 후 첫 실행,
+**입문자 + 집 계가 선택 상태**(옛 컷의 구도를 그대로 재현). 변환도 위 「변환 규격」 그대로:
+상단 96px 제거 → 1080x2304 → 좌우 108px씩 **가장자리 열을 늘려** 패딩 → 1296x2304 · RGB.
+
+⚠ **나머지 다섯 장은 다시 찍지 않았다 — 확인하고 내린 판단이다.** 900 이후 코드 변경
+(#130~#136) 가운데 이 다섯 컷의 화면을 바꾸는 것이 없다: 회전 수정은 매니페스트, 손을 따라오는
+착수는 **정지 화면에 안 나타나고**, 설정 IA·대국 설정 잠금은 **설정 화면**(컷에 없다), 벤치마크와
+결제는 개발자 섹션·비활성 플래그다.
+· ⚠ **#128의 코치마크·말풍선은 첫 실행에만 뜬다.** 나머지 다섯 컷은 가이드가 끝난 정상 상태를
+  담고 있고 그 상태는 지금도 같다 — 그래서 유효하다. **다시 찍는다면 가이드를 먼저 소진시킬 것**,
+  아니면 없던 말풍선이 컷에 들어온다.
+
+⚠ **`dist/play-store-assets/`가 옛 번호 체계로 남아 있었다 — 이번에 바로잡았다.** 2026-09-06
+밤의 재배열(랜딩을 맨 앞으로)이 `export/`에만 반영되고 업로드 사본 3곳은 `01_home`…`06_landing`
+그대로였다. **콘솔은 파일명 오름차순으로 정렬하므로 그대로 올렸으면 랜딩이 맨 뒤로 갔다.**
+이제 세 폴더 모두 `export/`에서 다시 생성했고 sha256이 넷 다 일치한다.
+
+⚠ **짝이 되는 AAB는 901이다**(`v0.9.1`, sha256 `8c3eb79e77c4…68a05`).
